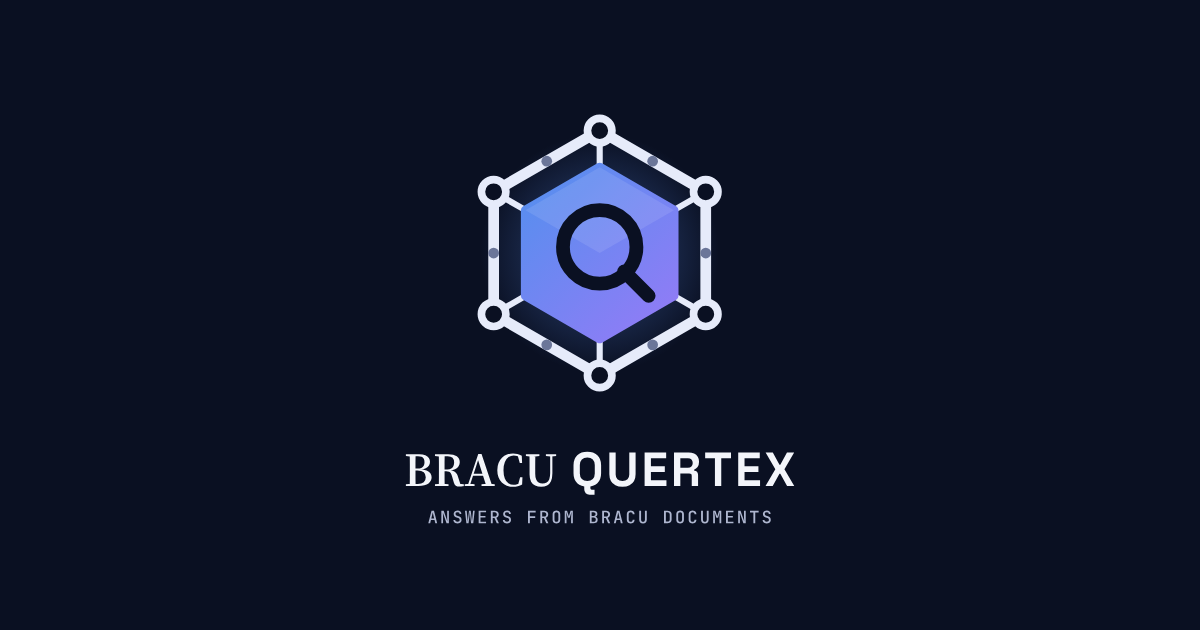
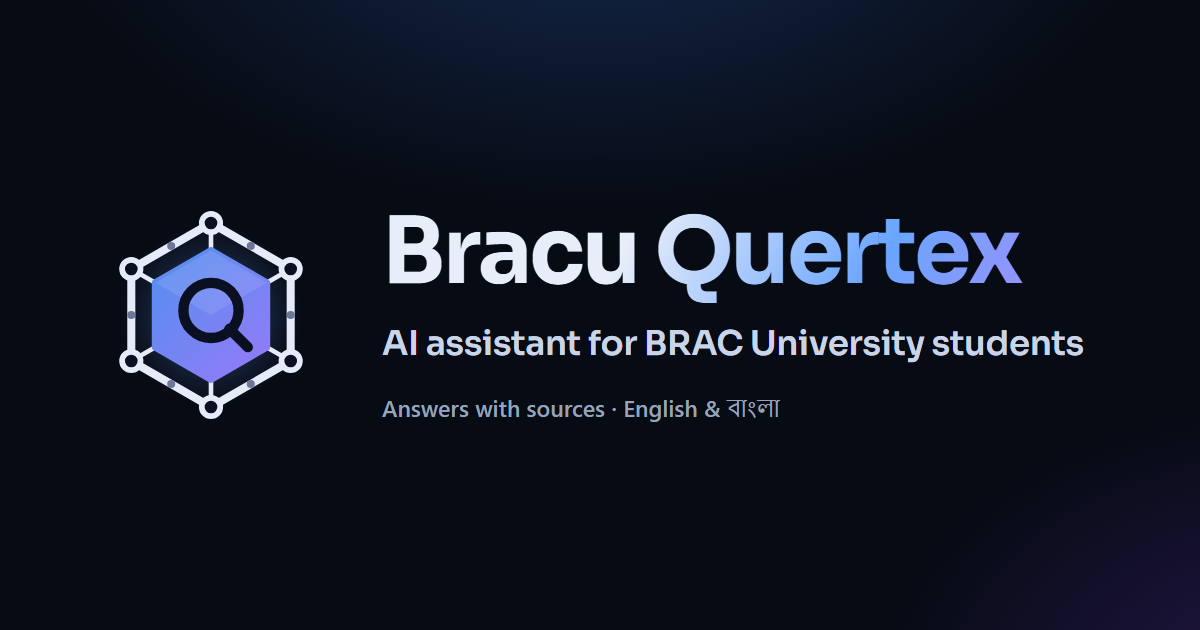
optimization

diff --git a/public/index.html b/public/index.html
@@ -3,18 +3,31 @@
 <head>
 <meta charset="utf-8">
 <meta name="viewport" content="width=device-width, initial-scale=1, viewport-fit=cover">
-<title>BRACU QUERTEX — Ask about BRAC University</title>
-<meta name="description" content="Ask about BRAC University rules, exams, fees, admissions and the latest notices. Answers come from university documents, with sources.">
-<!-- share preview (Facebook, WhatsApp, LinkedIn, X, Slack, Discord) -->
+<title>Bracu Quertex — AI assistant for BRAC University students</title>
+<meta name="description" content="Bracu Quertex answers questions about BRAC University: rules, courses, exams, tuition fees, admission and the latest announcements, with sources. Independent student project.">
+<meta name="google-site-verification" content="7NGQSyqaTM0kA3vSTSSZkJZx2jj-5pCBWun9PnwIVIE" />
+<link rel="canonical" href="https://bracu-quertex.vercel.app/">
+<meta name="application-name" content="Bracu Quertex">
+<meta name="apple-mobile-web-app-title" content="Bracu Quertex">
+<!-- share preview (Facebook, WhatsApp, LinkedIn, X, Slack, Discord); image URLs must be absolute -->
 <meta property="og:type" content="website">
-<meta property="og:site_name" content="BRACU QUERTEX">
-<meta property="og:title" content="BRACU QUERTEX — Ask about BRAC University">
-<meta property="og:description" content="Ask about BRAC University rules, exams, fees, admissions and the latest notices. Answers come from university documents, with sources.">
-<meta property="og:image" content="/og-image.png">
+<meta property="og:site_name" content="Bracu Quertex">
+<meta property="og:url" content="https://bracu-quertex.vercel.app/">
+<meta property="og:title" content="Bracu Quertex — AI assistant for BRAC University students">
+<meta property="og:description" content="Bracu Quertex answers questions about BRAC University: rules, courses, exams, tuition fees, admission and the latest announcements, with sources. Independent student project.">
+<meta property="og:image" content="https://bracu-quertex.vercel.app/og-image.png">
 <meta property="og:image:width" content="1200">
 <meta property="og:image:height" content="630">
-<meta property="og:image:alt" content="BRACU QUERTEX logo">
+<meta property="og:image:alt" content="Bracu Quertex — AI assistant for BRAC University students">
 <meta name="twitter:card" content="summary_large_image">
+<meta name="twitter:title" content="Bracu Quertex — AI assistant for BRAC University students">
+<meta name="twitter:description" content="Bracu Quertex answers questions about BRAC University: rules, courses, exams, tuition fees, admission and the latest announcements, with sources. Independent student project.">
+<meta name="twitter:image" content="https://bracu-quertex.vercel.app/og-image.png">
+<!-- the site name Google shows in results -->
+<script type="application/ld+json">
+{"@context": "https://schema.org", "@type": "WebSite", "name": "Bracu Quertex",
+ "alternateName": "Quertex", "url": "https://bracu-quertex.vercel.app/"}
+</script>
 <meta name="theme-color" content="#eef3fb">
 <script>
   // Theme before the first paint (no flash): the saved choice, else the device setting.
@@ -112,7 +125,7 @@ header {
 .logomark:hover img { transform: scale(1.06) rotate(-4deg); }
 body.busy .logomark img { animation: markpulse 1.4s ease-in-out infinite; }
 @keyframes markpulse { 50% { transform: scale(1.08); filter: drop-shadow(0 0 8px color-mix(in srgb, var(--accent) 60%, transparent)); } }
-.brand { font-family: var(--display); font-weight: 700; font-size: 16.5px; letter-spacing: -.01em; line-height: 1.25; }
+.brand { font-family: var(--display); font-weight: 700; font-size: 16.5px; letter-spacing: -.01em; line-height: 1.25; white-space: nowrap; }
 .brand small { display: block; font-family: system-ui, sans-serif; font-weight: 500; font-size: 12px; color: var(--muted); letter-spacing: 0; }
 
 /* load-in: logo and text both start hidden at the gap between them, then move apart.
@@ -140,8 +153,9 @@ body.busy .logomark img { animation: markpulse 1.4s ease-in-out infinite; }
   .intro-logo, .intro-text, .intro-text small { animation: none; }
 }
 .bar .spacer { flex: 1; }
-.status { display: inline-flex; align-items: center; gap: 7px; font-size: 12.5px; color: var(--muted);
-  padding: 5px 10px; border-radius: 999px; border: 1px solid var(--border); background: var(--surface); white-space: nowrap; }
+.status { display: inline-flex; align-items: center; gap: 7px; font-size: 12.5px; line-height: 1; color: var(--muted);
+  height: 32px; padding: 0 12px; flex: none;               /* same height as the theme switch */
+  border-radius: 999px; border: 1px solid var(--border); background: var(--surface); white-space: nowrap; }
 .status::before { content: ""; width: 7px; height: 7px; border-radius: 50%; background: var(--green);
   box-shadow: 0 0 0 3px color-mix(in srgb, var(--green) 22%, transparent); }
 .status.busy::before { background: var(--accent); animation: ping 1s ease-in-out infinite; }
@@ -150,7 +164,7 @@ body.busy .logomark img { animation: markpulse 1.4s ease-in-out infinite; }
 .iconbtn {
   border: 1px solid var(--border); background: var(--surface); color: var(--text);
   border-radius: 12px; padding: 7px 12px; font-size: 14px; cursor: pointer; display: inline-flex; gap: 6px; align-items: center;
-  transition: transform .15s, border-color .15s;
+  transition: transform .15s, border-color .15s; white-space: nowrap; flex: none;
 }
 .iconbtn:hover { border-color: var(--accent); transform: translateY(-1px); }
 
@@ -281,6 +295,12 @@ main { flex: 1; width: 100%; max-width: 820px; margin: 0 auto; padding: 16px 16p
   padding: 0 7px; border-radius: 999px; white-space: nowrap; vertical-align: 1px; background: var(--grey-bg); color: var(--grey); }
 .pill.unconfirmed { background: var(--amber-bg); color: var(--amber); }
 
+/* "What is Bracu Quertex?": plain crawlable text, quiet so it never competes with the chat */
+.about { margin: 18px auto 0; max-width: 620px; text-align: left; font-size: 13.5px; line-height: 1.55; color: var(--muted); }
+.about h2 { font-family: var(--display); font-size: 14px; font-weight: 600; color: var(--text); margin: 0 0 4px; }
+.about p { margin: 0 0 6px; }
+.about .about-note { font-size: 12.5px; }
+
 /* ---------- messages */
 .msg { display: flex; gap: 10px; margin: 16px 0; animation: rise .55s cubic-bezier(.2,.8,.2,1) both; }
 .msg.user { justify-content: flex-end; }
@@ -406,6 +426,15 @@ textarea:focus-visible { outline: none; }   /* the whole composer glows instead 
   .latest li { flex-direction: column; gap: 1px; }
   .latest time { min-width: 0; }
 }
+@media (max-width: 420px) {   /* keep the header on one line on small phones */
+  .bar { gap: 8px; padding: 10px 12px; }
+  .logomark, .logomark img { width: 36px; height: 36px; }
+  .iconbtn { padding: 7px 10px; }
+}
+@media (max-width: 380px) {   /* icon only; the label stays for screen readers */
+  .iconbtn { padding: 10px 11px; }
+  .iconbtn .btn-label { position: absolute; width: 1px; height: 1px; overflow: hidden; clip: rect(0 0 0 0); white-space: nowrap; }
+}
 @media (prefers-reduced-motion: reduce) {
   *, *::before, *::after { animation-duration: .01ms !important; animation-iteration-count: 1 !important; transition-duration: .01ms !important; }
 }
@@ -420,7 +449,7 @@ textarea:focus-visible { outline: none; }   /* the whole composer glows instead 
       <img class="lm-light" src="/quertex-mark-light.svg" alt="" width="44" height="44">
       <img class="lm-dark" src="/quertex-mark-dark.svg" alt="" width="44" height="44">
     </span>
-    <div class="brand intro-text">BRACU QUERTEX<small>Answers from BRACU documents</small></div>
+    <div class="brand intro-text">Bracu Quertex<small>Answers from BRACU documents</small></div>
     <div class="spacer"></div>
     <span class="status" id="status" role="status">Ready</span>
     <button class="theme-switch" id="theme" type="button" role="switch" aria-checked="false" aria-label="Dark mode">
@@ -430,7 +459,7 @@ textarea:focus-visible { outline: none; }   /* the whole composer glows instead 
       <span class="ts-knob" aria-hidden="true"><span class="ts-crater"></span><span class="ts-crater"></span><span class="ts-crater"></span></span>
     </button>
     <button class="iconbtn" id="clear" type="button" title="Start a new chat">
-      <svg width="15" height="15" viewBox="0 0 24 24" fill="none" stroke="currentColor" stroke-width="2.2" stroke-linecap="round" aria-hidden="true"><path d="M12 5v14M5 12h14"/></svg>New chat
+      <svg width="15" height="15" viewBox="0 0 24 24" fill="none" stroke="currentColor" stroke-width="2.2" stroke-linecap="round" aria-hidden="true"><path d="M12 5v14M5 12h14"/></svg><span class="btn-label">New chat</span>
     </button>
   </div>
 </header>
@@ -439,20 +468,27 @@ textarea:focus-visible { outline: none; }   /* the whole composer glows instead 
   <section class="empty" id="empty">
     <div class="hero">
       <div class="eyebrow">✦ 199 official documents · current rules first</div>
-      <h1>Ask about BRAC University</h1>
-      <p class="lead">Rules, exams, fees, admissions, conduct, transport and more — in English or বাংলা. Every answer shows its sources.</p>
+      <h1>Bracu Quertex</h1>
+      <p class="lead">Ask about BRAC University rules, exams, fees, admissions, conduct, transport and more — in English or বাংলা. Every answer shows its sources.</p>
     </div>
     <div class="examples" id="examples"></div>
     <section class="latest" id="latest" hidden aria-labelledby="latest-h">
       <h2 id="latest-h">Latest notices</h2>
       <ul id="latest-list"></ul>
     </section>
+    <section class="about" aria-labelledby="about-h">
+      <h2 id="about-h">What is Bracu Quertex?</h2>
+      <p>Bracu Quertex is an AI assistant that answers questions about BRAC University: academic rules, courses,
+        exams, tuition fees, admission, student services and the latest announcements. Every answer is drawn
+        from university documents and cites its sources, so you can check them. Ask in English or Bangla (বাংলা).</p>
+      <p class="about-note">Independent student project, not an official BRAC University service.</p>
+    </section>
   </section>
   <div id="chat" aria-live="polite"></div>
   <div class="notice">
     Answers come from documents collected in October 2026 and can be wrong or out of date. For important or
     sensitive matters, always confirm decisions with the responsible office. Chats aren’t stored. You can rate
-    any answer with 👍/👎; when you do, that question and answer are saved anonymously to help improve Quertex.
+    any answer with 👍/👎; when you do, that question and answer are saved anonymously to help improve Bracu Quertex.
   </div>
 </main>
 

diff --git a/app.py b/app.py
@@ -1,4 +1,4 @@
-"""BRACU QUERTEX — FastAPI app.
+"""Bracu Quertex — FastAPI app.
 
 Local:   uvicorn app:app --reload        then open http://localhost:8000
 Vercel:  detected automatically (FastAPI instance named `app` in app.py).
@@ -28,7 +28,7 @@ from bracu.guard import check_rate_limit, client_key, save_feedback
 from bracu.rag import ask, cited_numbers, source_card
 from bracu.retriever import index_info, latest_announcements
 
-app = FastAPI(title='BRACU QUERTEX API', docs_url='/api/docs', openapi_url='/api/openapi.json')
+app = FastAPI(title='Bracu Quertex API', docs_url='/api/docs', openapi_url='/api/openapi.json')
 
 if config.ALLOWED_ORIGINS:
     app.add_middleware(CORSMiddleware, allow_origins=config.ALLOWED_ORIGINS,
@@ -137,7 +137,7 @@ def announcements(limit: int = Query(5, ge=1, le=20)):
 
 @app.get('/api/health')
 def health():
-    out = {'app': 'BRACU QUERTEX', 'ok': True, 'embedder': embedder_status(),
+    out = {'app': 'Bracu Quertex', 'ok': True, 'embedder': embedder_status(),
            'providers': [{'provider': p, 'model': m, 'has_key': ok} for p, m, ok in llm.available()]}
     try:
         info = index_info()

diff --git a/bracu/prompts.py b/bracu/prompts.py
@@ -4,7 +4,7 @@ from datetime import date, datetime
 
 from .config import DHAKA
 
-SYSTEM_PROMPT = """You are BRACU QUERTEX, a student help assistant for BRAC University. You answer questions from \
+SYSTEM_PROMPT = """You are Bracu Quertex, a student help assistant for BRAC University. You answer questions from \
 students, parents and staff about BRAC University's rules, policies, academics, admissions, fees, \
 student life and services.
 

diff --git a/README.md b/README.md
@@ -1,11 +1,11 @@
 <p align="center">
   <picture>
     <source media="(prefers-color-scheme: dark)" srcset="brand/svg/quertex-q-horizontal-dark.svg">
-    <img src="brand/svg/quertex-q-horizontal-light.svg" alt="BRACU QUERTEX" height="80">
+    <img src="brand/svg/quertex-q-horizontal-light.svg" alt="Bracu Quertex" height="80">
   </picture>
 </p>
 
-# BRACU QUERTEX — FastAPI + pgvector
+# Bracu Quertex — FastAPI + pgvector
 
 A chatbot that answers BRAC University questions from 199 official documents and the university's latest announcements. It puts current rules first, cites its sources, labels draft versions (policies published by BRAC University without a stated final approval date), and says when it doesn't know.
 

diff --git a/CLAUDE.md b/CLAUDE.md
@@ -1,4 +1,4 @@
-# BRACU QUERTEX — FastAPI + pgvector
+# Bracu Quertex — FastAPI + pgvector
 
 RAG chatbot over `BRACU_RAG_Corpus/` (199 docs, ~1,045 chunks) plus BRAC University announcements. FastAPI on Vercel (`sin1`), Neon Postgres + pgvector (`ap-southeast-1`). See README.md.
 
